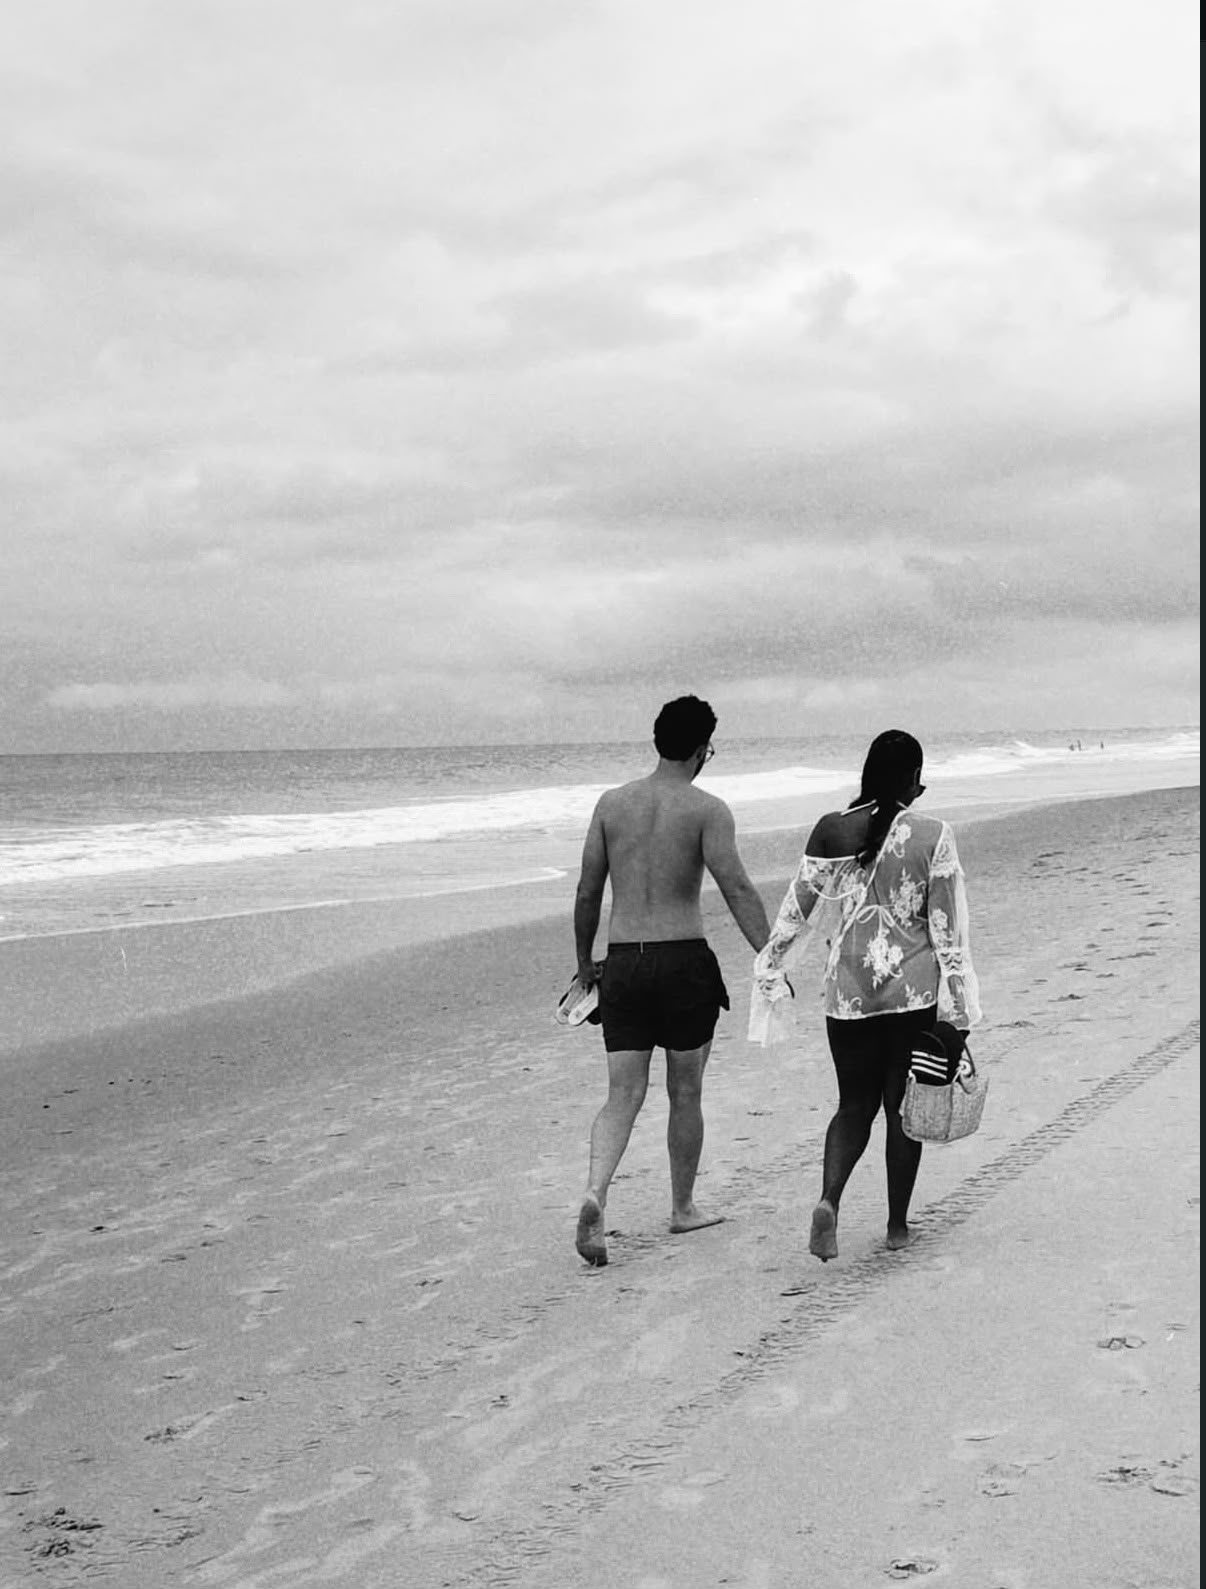
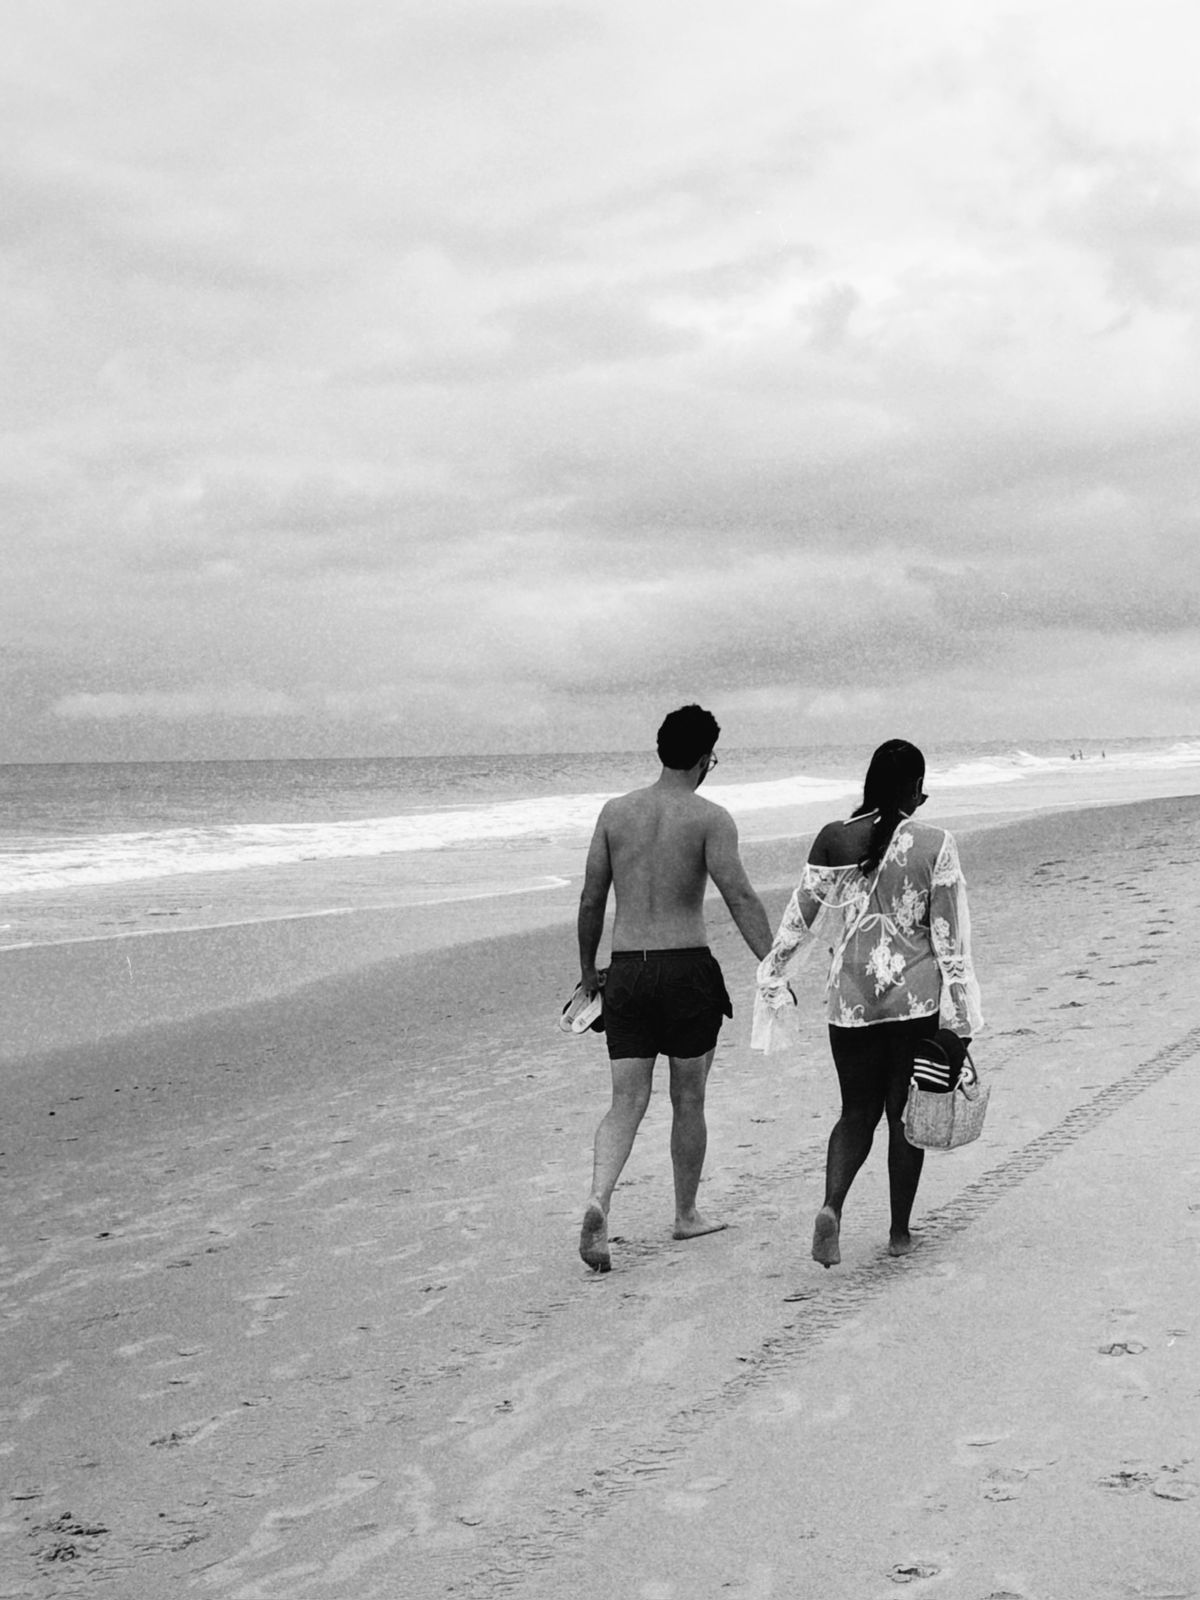
Adição de imagens novas, montar seção de galerias de fotos, lógica e estilização

diff --git a/src/components/TimeLine.css b/src/components/TimeLine.css
@@ -1,41 +1,148 @@
 
 .timeline-item{
-    max-width: 700px;
+    max-width: 44%;
     width: 100%;
 
 
     display: flex;
-    gap: 40px;
-    text-align: center;
+    flex-direction: row;
+
+
+    justify-content: space-between;
+
+    gap: 20px;
+    text-align: left;
     align-items: center ;
 
-    padding:20px 40px;
+    padding:20px;
 
     background: white;
-    border-radius: 10px;
-    box-shadow: 0 4px 16px 0 rgba(0,0,0,0.12);
+    border-radius: 15px;
+    box-shadow: 0 4px 16px 0 rgba(0,0,0,0.45);
+    position: relative;
+    margin-bottom: 40px;
     
-}
-.timeline-item.left{   
-    align-self: flex-end;
+    box-sizing: border-box;
 }
 
-.timeline-item.right{
+.timeline-item::after {
+    content: '';
+    position: absolute;
+    top: 50%;
+    transform: translateY(-50%);
+    width: 16px;
+    height: 16px;
+    background-color: #ff4d6d;
+    border-radius: 50%;
+    z-index: 10; 
+}
+/*Elementos da esquerda*/
+.timeline-item.left{   
     align-self: flex-start;
 }
 
-.timeline-container{
+/*Div com o conteudo/textos*/
+.timeline-content {
     display: flex;
     flex-direction: column;
-    align-items: center;
+    gap: 8px; /* Dá um espacinho sutil entre Título, Data e Descrição */
+    text-align: left;
+    padding-right: 15px; /* Evita que o texto encoste na imagem */
 }
 
+.timeline-item.left::after{
+    right: calc(-13.6% - 8px); 
+    left: auto;
+}   
+
+
+.timeline-item.right{
+    align-self: flex-end;
+}
+
+.timeline-item.right::after{
+    left: calc(-13.6% - 8px);
+    right: auto;
+}
+
+
+
+.timeline-container {
+    width: 100%;
+    max-width: 1200px; 
+    margin: 0 auto;
+    display: flex;
+    flex-direction: column;
+    position: relative;
+    padding: 60px 0;
+}
+
+/*Esse before eh uma pseudoclasse que eh renderizada antes dos elementos da secao*/
+.timeline-container::before{
+    content: " ";
+    position: absolute;
+    top: 0;
+    bottom: 0;
+    left: 50%;
+    width: 4px;
+    background-color: #ffb3c6;
+
+    transform: translateX(-50%);
+
+
+
+    
+
+}
+
+
 .timeline-image{
-    width: 300px;
-    height: 300px;
+    width: 250px;
+    height: 250px;
     object-fit: cover;
+    border-radius: 10px;
+    flex-shrink: 0;
 }
 
 .timeline-text{
     color:#333333;
+}
+
+@media screen and (max-width: 768px) {
+
+    .timeline-container::before {
+        left: 30px; /* Em vez de 50%, a linha agora fica fixa perto da borda esquerda */
+        transform: none; /* Remove o ajuste de centralização anterior */
+    }
+
+    /* 2. REESTRUTURA OS CARDS */
+    .timeline-item {
+        max-width: calc(100% - 60px); /* O card ocupa quase a tela toda, deixando espaço para a linha */
+        width: 100%;
+        margin-left: 60px; /* Empurra o card para a direita para não cobrir a linha rosa */
+        align-self: flex-end !important; /* Força TANTO os cards left quanto right a irem para a direita */
+        
+        /* Se a tela for muito pequena, muda para coluna para a foto não esmagar o texto */
+        flex-direction: column; 
+        text-align: center;
+    }
+    
+    .timeline-content {
+        padding-right: 0;
+        text-align: center; /* Centraliza o texto no mobile */
+    }
+
+    .timeline-image {
+        width: 100%; /* A foto passa a ocupar a largura total disponível no card */
+        max-height: 200px; /* Limita a altura para não ficar gigante */
+    }
+
+    /* 3. REPOSICIONA TODAS AS BOLINHAS NA ESQUERDA */
+    /* Como todos os cards foram para a direita da linha, todas as bolinhas precisam 
+       ficar presas na borda ESQUERDA de cada card para interceptar a linha rosa */
+    .timeline-item.left::after,
+    .timeline-item.right::after {
+        left: -38px; /* Ajuste fixo em pixels para cravar a bolinha em cima da linha na esquerda */
+        right: auto; /* Anula o valor de right que usamos no desktop */
+    }
 }

diff --git a/src/data/photos.js b/src/data/photos.js
@@ -1,5 +1,63 @@
 export const photos = [
     {
-
+        id:1,
+        foto:"/photos/img01.jpeg",
+        legenda:"Saindo pra jantar com Davi e Isa"
+    },
+    {
+        id:2,
+        foto:"/photos/img02.jpeg",
+        legenda:"Tarde tranquila na sua casa"
+    },
+    {
+        id:3,
+        foto:"/photos/img03.jpeg",
+        legenda:"Primeira Viagem"
+    },
+    {
+        id:4,
+        foto:"/photos/img04.jpeg",
+        legenda:"Seu aniversario"
+    },
+    {
+        id:5,
+        foto:"/photos/img05.jpeg",
+        legenda:"Pedido de Namoro"
+    },
+    {
+        id:6,
+        foto:"/photos/img06.jpeg",
+        legenda:"Viagem pra Acaracajú!"
+    },
+    {
+        id:7,
+        foto:"/photos/img07.jpeg",
+        legenda:"Viagem pra Juazeiro!"
+    },
+    {
+        id:8,
+        foto:"/photos/img08.jpeg",
+        legenda:"Aniversário de Tayy"
+    },
+    {
+        id:9,
+        foto:"/photos/img09.jpeg",
+        legenda:"Casamento de papis"
+    },
+    {
+        id:10,
+        foto:"/photos/img010.jpeg",
+        legenda:"Meu aniversáriooooo"
+    },
+    {
+        id:11,
+        foto:"/photos/img011.jpeg",
+        legenda:"Sushizito com Tayrison"
+    },
+    {
+        id:12,
+        foto:"/photos/img012.jpeg",
+        legenda:"Foto que fui assumidooo"
     }
+
 ]

diff --git a/src/components/Gallery.css b/src/components/Gallery.css
@@ -1,0 +1,45 @@
+.gallery-container{
+    display: flex;
+    flex-wrap: wrap;
+    gap: 40px;
+    justify-content:center ;
+}
+
+.gallery-item{
+    background-color: white;
+    box-shadow: 0 4px 16px 0 rgba(0,0,0,0.45);
+    border-radius: 15px;
+    padding: 10px;
+    text-align: center;
+}
+.gallery-image{
+    width: 350px;
+    height: 350px;
+    object-fit: cover;
+    border-radius: 10px;
+    flex-shrink: 0;
+}
+
+@media screen and (max-width: 768px) {
+    .gallery-container {
+        /* Diminui o espaçamento entre os itens para caber melhor na tela menor */
+        gap: 20px; 
+        padding: 0 15px; /* Adiciona uma folga nas laterais da tela */
+    }
+
+    .gallery-item {
+        /* Garante que o container do item não passe do tamanho da tela */
+        width: 100%; 
+        max-width: 350px; /* Mantém o limite do design original */
+        box-shadow: 0 2px 8px 0 rgba(0,0,0,0.25); /* Sombra um pouco mais leve para mobile */
+    }
+
+    .gallery-image {
+        /* Torna a imagem responsiva: ela vai ocupar 100% da largura do item */
+        width: 100%; 
+        /* Altera a altura para auto (opcional) para manter a proporção, 
+           ou mantém um valor fixo menor se quiser manter o formato quadrado. Ex: height: 300px; */
+        height: auto; 
+        aspect-ratio: 1 / 1; /* Garante que ela continue perfeitamente quadrada (350x350) */
+    }
+}

diff --git a/src/components/GalleryItem.jsx b/src/components/GalleryItem.jsx
@@ -1,0 +1,23 @@
+import "./Gallery.css"
+
+export default function GalleryItem({
+    foto,
+    legenda,
+
+}){
+    return(
+    //Separação de cada momento da timeline em um article.
+    <article className="gallery-item">
+      {foto && (
+        <img 
+          src={foto} 
+          alt={legenda} 
+          className="gallery-image"
+        />
+      )}
+            <div className="gallery-content">
+      <h3 className="gallery-text">{legenda}</h3>
+      </div>
+    </article>
+    )
+}

diff --git a/src/components/Gallery.jsx b/src/components/Gallery.jsx
@@ -1,0 +1,21 @@
+import GalleryItem from "./GalleryItem"
+
+export default function Gallery(props){
+      //Retorna o valor desejado
+            return(
+                //Cria um container para vizualização de HTML
+                <div className="gallery-container">
+        
+                    {props.list.map((item) =>{ 
+        
+
+                        return(
+                        <GalleryItem
+                        key={item.id}
+                        foto={item.foto}
+                        legenda={item.legenda}
+                        />
+                    )})}
+                </div>
+            )
+        }

diff --git a/src/sections/GallerySection.jsx b/src/sections/GallerySection.jsx
@@ -1,8 +1,17 @@
+import Gallery from "../components/Gallery.jsx";
 
+export default function GallerySection(props){
 
-export default function GallerySection(){
     return(
-    <section>
-    <h2>Apesar de não termos muitas fotos juntos, todas elas valem muito! <br />já que elas são a prova eterna dos momentos lindos que nós vivemos juntos.</h2>
-    </section>
-)}
+        <section className="gallery-section">
+            <h2>
+                Apesar de não termos muitas fotos juntos, todas elas valem muito!
+                <br />
+                já que elas são a prova eterna dos momentos lindos que nós vivemos juntos.
+            </h2>
+
+            <Gallery list={props.photos} />
+
+        </section>
+    )
+}

diff --git a/src/data/timeline.js b/src/data/timeline.js
@@ -4,7 +4,7 @@ export const timeline = [
         data:"20/09/2025",
         titulo:"Primeiro beijo",
         descricao:"O dia em que minha vida mudou.",
-        foto:"photos/img01.jpeg"
+        foto:"/photos/img01.jpeg"
     },
     {
         id:2,
@@ -21,14 +21,14 @@ export const timeline = [
         descricao:"A filha já foi, a missão agora é conquistar os pais!",
         foto:"/photos/img03.jpeg"
     },
-    /*{
+    {
         id:4,
         data:"30/01/2026",
         titulo:"Aniversário de Memel <3",
         descricao:"Dia de prestigiar a vida do meu amor.",
-        foto:null 
+        foto:"/photos/img04.jpeg"
     
-    },*/
+    },
     {
         id:5,
         data:"01/02/2026",